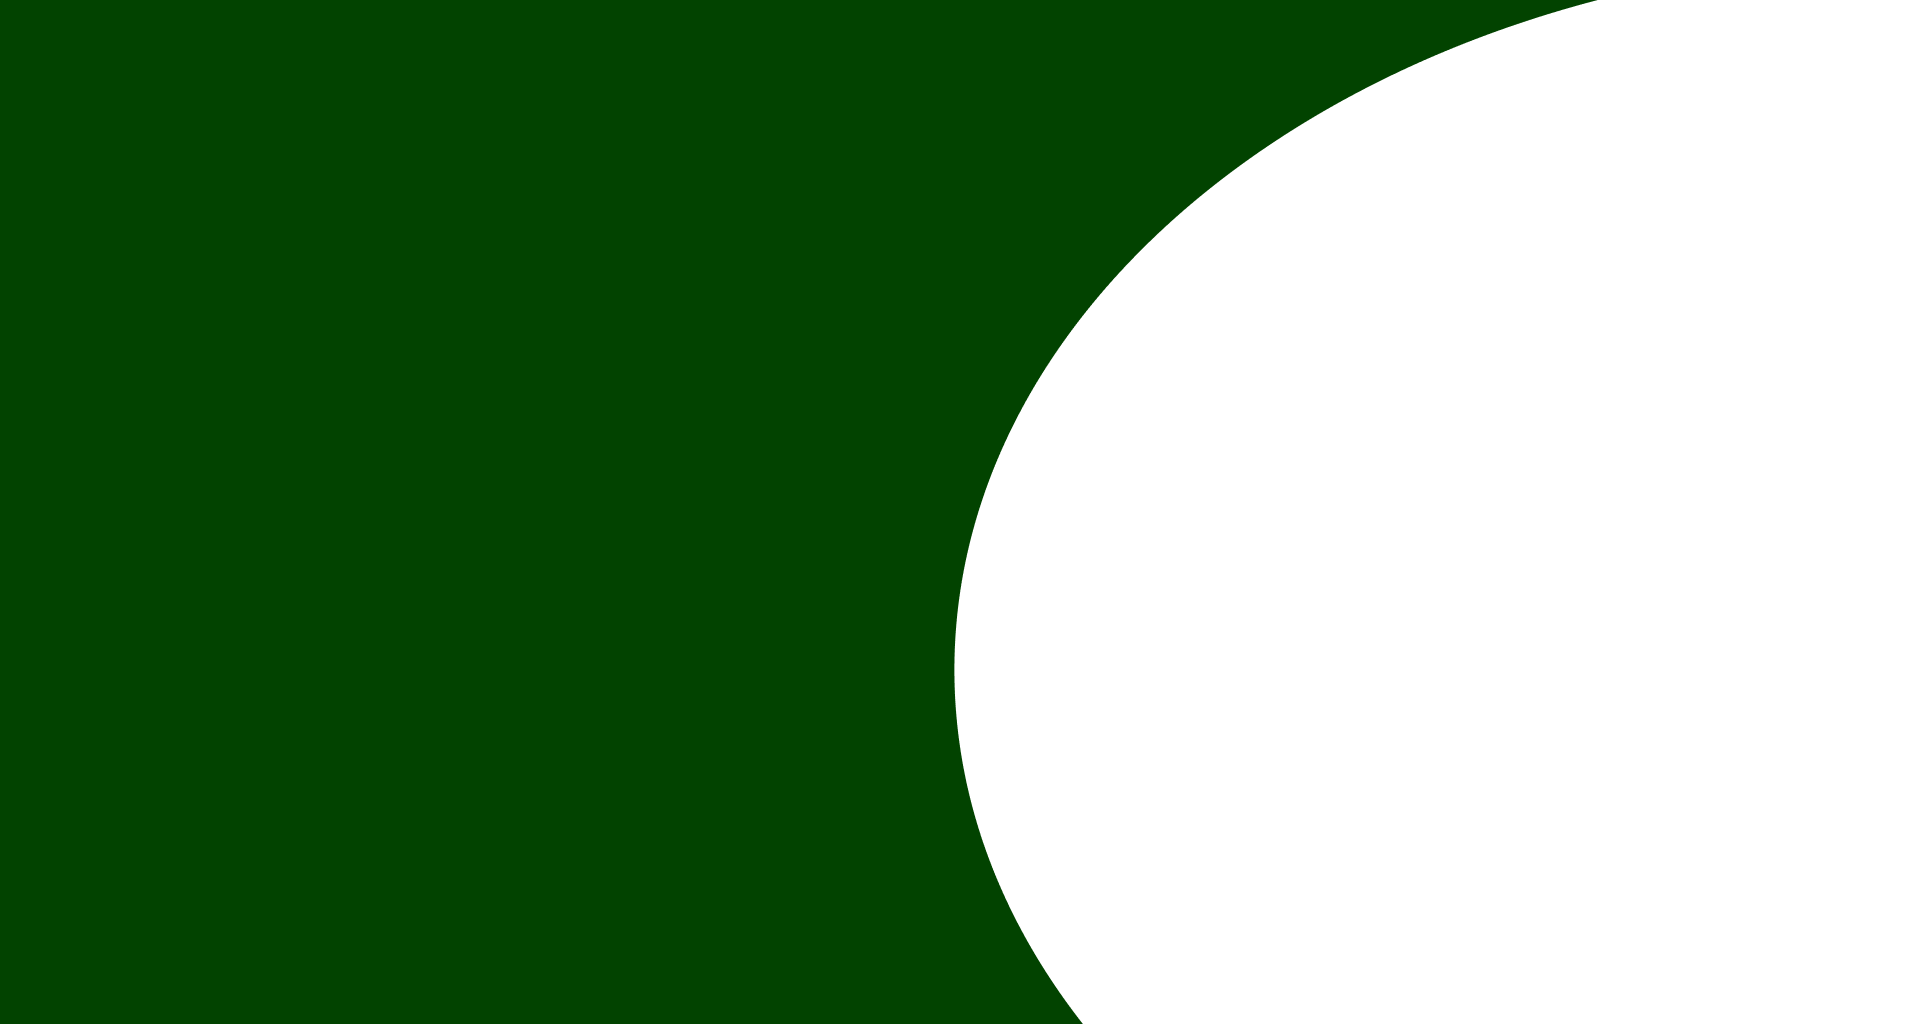
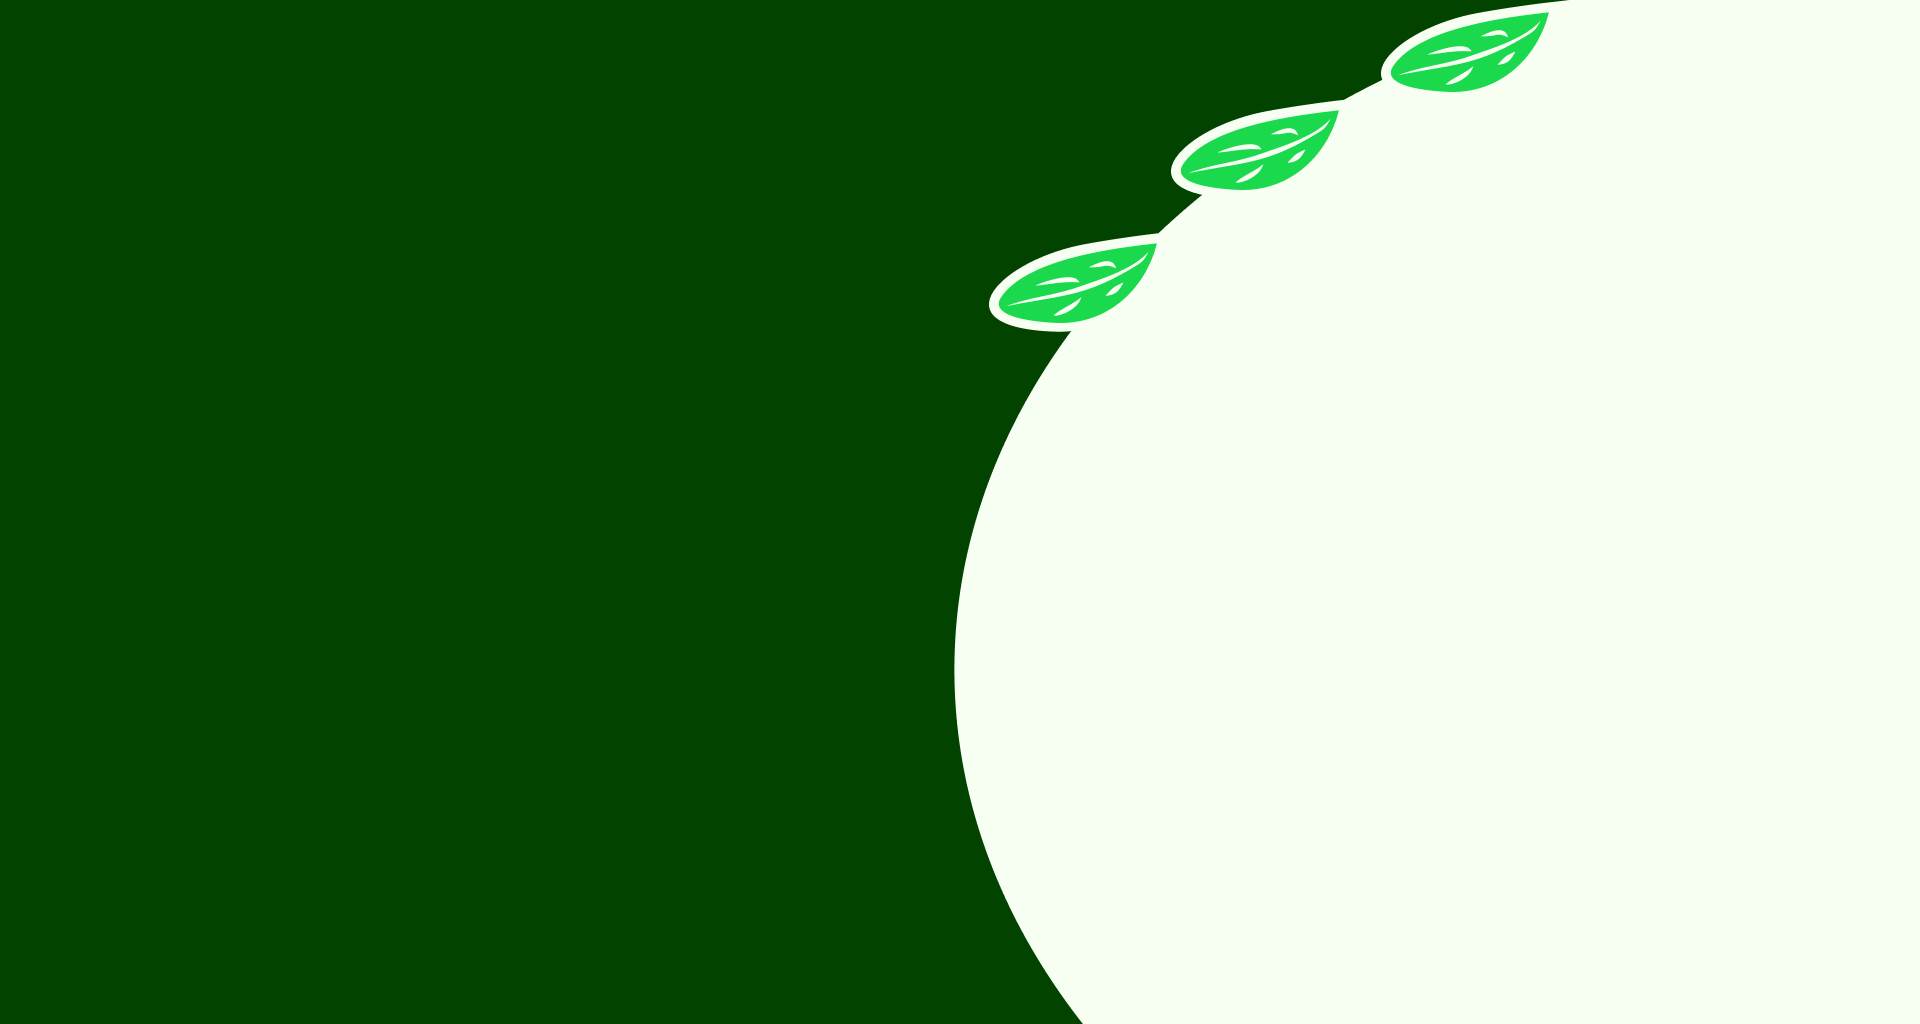
Сreated Login Structure with textboxes and Log In button

Changed region(s): [[0.5, 0.2188, 0.625, 0.3438], [0.5938, 0.0938, 0.7188, 0.1875], [0.7188, 0.0, 0.8438, 0.0938]]

diff --git a/AveCaesarApp/AuthorizationWindow.xaml b/AveCaesarApp/AuthorizationWindow.xaml
@@ -5,7 +5,7 @@
         xmlns:mc="http://schemas.openxmlformats.org/markup-compatibility/2006"
         xmlns:local="clr-namespace:AveCaesarApp"
         mc:Ignorable="d"
-        Title="Ave Caesar" Height="450" Width="800" MinWidth="800" MinHeight="450" Icon="/Images/LogoIcon.png">
+        Title="Ave Caesar" Height="450" Width="800" MinWidth="800" MinHeight="480" Icon="/Images/LogoIcon.png"  FontFamily="Source Serif Pro">
     <Window.Background>
         <ImageBrush ImageSource="Images/Background.png"></ImageBrush>
     </Window.Background>
@@ -30,5 +30,21 @@
             <Run FontWeight="Bold">правильного питания </Run>
             <Run>в Беларуси</Run>
         </TextBlock>
+        <StackPanel x:Name="AuthorizationStackPanel" Grid.Row="1" Grid.Column="2" Grid.ColumnSpan="2" Grid.RowSpan="3" Margin="30,0,0,0" SizeChanged="AuthorizationStackPanel_OnSizeChanged">
+            <TextBlock x:Name="LogInLabel" FontSize="23" FontFamily="Source Serif Pro" TextAlignment="Center" Foreground="#FF024300" FontWeight="Bold">Вход в систему</TextBlock>
+            <Border x:Name="LoginTextBoxBorder"  BorderBrush="#FF024300" BorderThickness="0.9"  Margin="60,10,60,10" CornerRadius="10">
+                <TextBox x:Name="LoginTextBox"  ToolTip="Логин" BorderBrush="{x:Null}" Margin="5,2,5,2"
+                     BorderThickness="0" GotFocus="LoginTextBox_OnGotFocus" LostFocus="LoginTextBox_OnLostFocus"
+                      FontWeight="Regular" FontFamily="Source Serif Pro" FontSize="17" Padding="7" SizeChanged="LoginTextBox_OnSizeChanged"/>
+            </Border>
+            <Border x:Name="PasswordTextBoxBorder" BorderBrush="#FF024300" BorderThickness="0.9"  Margin="60,10,60,10" CornerRadius="10">
+                <TextBox x:Name="PasswordTextBox"  ToolTip="Логин" BorderBrush="{x:Null}" Margin="5,2,5,2"
+                         BorderThickness="0" GotFocus="PasswordTextBox_OnGotFocus" LostFocus="PasswordTextBox_OnLostFocus" 
+                         FontWeight="Regular" FontSize="17" Padding="7" SizeChanged="PasswordTextBox_OnSizeChanged"/>
+            </Border>
+            <Border x:Name="LogInButtonBorder" Background="#FF024300" Margin="110,10,110,0" Padding="0,5,0,5" CornerRadius="13" Cursor="Hand">
+                <Button x:Name="LogInButton" BorderBrush="{x:Null}" Foreground="#FFF7FFF3" Background="{x:Null}" FontSize="18" IsHitTestVisible="False" SizeChanged="LogInButton_OnSizeChanged">Войти</Button>
+            </Border>
+        </StackPanel>
     </Grid>
 </Window>

diff --git a/AveCaesarApp/AuthorizationWindow.xaml.cs b/AveCaesarApp/AuthorizationWindow.xaml.cs
@@ -21,6 +21,10 @@ namespace AveCaesarApp
         public AuthorizationWindow()
         {
             InitializeComponent();
+            LoginTextBox.Text = "Логин";
+            LoginTextBox.FontWeight = FontWeights.Light;
+            PasswordTextBox.Text = "Пароль";
+            PasswordTextBox.FontWeight = FontWeights.Light;
         }
 
         private void SubTextBox_OnSizeChanged(object sender, SizeChangedEventArgs e)
@@ -38,17 +42,155 @@ namespace AveCaesarApp
                 SubTextBox.FontSize = 23;
             }
 
-            if (Height > 800)
+            if (Height > 800 || this.WindowState == WindowState.Maximized)
             {
                 SubTextBox.FontSize = 30;
                 SubTextBox.MaxWidth = 600;
+            }
+           
+        }
+
+        #region LoginTextBox
+
+        private void LoginTextBox_OnGotFocus(object sender, RoutedEventArgs e)
+        {
+            if (LoginTextBox.Text == "Логин")
+            {
+                LoginTextBox.Text = "";
+                LoginTextBox.FontWeight = FontWeights.Bold;
 
             }
-            if (this.WindowState == WindowState.Maximized)
+        }
+
+        private void LoginTextBox_OnLostFocus(object sender, RoutedEventArgs e)
+        {
+            if (string.IsNullOrWhiteSpace(LoginTextBox.Text))
             {
-                SubTextBox.FontSize = 35;
-                SubTextBox.MaxWidth = 600;
+                LoginTextBox.Text = "Логин";
+                LoginTextBox.FontWeight = FontWeights.Light;
+
             }
+        }
+        #endregion
+
+        #region PasswordTextBox
+
+        private void PasswordTextBox_OnLostFocus(object sender, RoutedEventArgs e)
+        {
+            if (string.IsNullOrWhiteSpace(PasswordTextBox.Text))
+            {
+                PasswordTextBox.Text = "Пароль";
+                PasswordTextBox.FontWeight = FontWeights.Light;
+
+            }
+        }
+
+        private void PasswordTextBox_OnGotFocus(object sender, RoutedEventArgs e)
+        {
+            if (PasswordTextBox.Text == "Пароль")
+            {
+                PasswordTextBox.Text = "";
+                PasswordTextBox.FontWeight = FontWeights.Bold;
+
+            }
+        }
+        #endregion
+
+        private void LogInButton_OnSizeChanged(object sender, SizeChangedEventArgs e)
+        {
+            if (Height > 300 && Height <= 600)
+            {
+                LogInButton.FontSize = 18;
+                LogInButton.MaxWidth = 350;
+                LogInButtonBorder.Margin = new Thickness(110, 20, 110, 0);
+                LogInLabel.FontSize = 23;
+            }
+
+            if (Height > 600 && Height <= 800)
+            {
+                LogInButton.MaxWidth = 450;
+                LogInButton.FontSize = 20;
+                LogInButtonBorder.Margin = new Thickness(170, 20, 170, 0);
+                LogInLabel.FontSize = 26;
+
+
+            }
+
+            if (Height > 800 || this.WindowState == WindowState.Maximized)
+            {
+                LogInButton.FontSize = 23;
+                LogInButton.MaxWidth = 600;
+                LogInButtonBorder.Margin = new Thickness(250, 20, 250, 0);
+                LogInLabel.FontSize = 30;
+
+
+            }
+
+        }
+
+        private void PasswordTextBox_OnSizeChanged(object sender, SizeChangedEventArgs e)
+        {
+            if (Height > 300 && Height <= 600)
+            {
+                PasswordTextBox.FontSize = 18;
+                PasswordTextBox.MaxWidth = 350;
+                PasswordTextBoxBorder.Margin = new Thickness(60, 20, 60, 0);
+            }
+
+            if (Height > 600 && Height <= 800)
+            {
+                PasswordTextBox.MaxWidth = 450;
+                PasswordTextBox.FontSize = 20;
+                PasswordTextBoxBorder.Margin = new Thickness(70, 20, 70, 0);
+
+            }
+
+            if (Height > 800 || this.WindowState == WindowState.Maximized)
+            {
+                PasswordTextBox.FontSize = 23;
+                PasswordTextBox.MaxWidth = 600;
+                PasswordTextBoxBorder.Margin = new Thickness(160, 20, 160, 0);
+
+            }
+        }
+
+        private void LoginTextBox_OnSizeChanged(object sender, SizeChangedEventArgs e)
+        {
+            if (Height > 300 && Height <= 600)
+            {
+                LoginTextBox.FontSize = 18;
+                LoginTextBox.MaxWidth = 350;
+                LoginTextBoxBorder.Margin = new Thickness(60, 20, 60, 0);
+            }
+
+            if (Height > 600 && Height <= 800)
+            {
+                LoginTextBox.MaxWidth = 450;
+                LoginTextBox.FontSize = 20;
+                LoginTextBoxBorder.Margin = new Thickness(70, 20, 70, 0);
+
+            }
+
+            if (Height > 800 || this.WindowState == WindowState.Maximized)
+            {
+                LoginTextBox.FontSize = 23;
+                LoginTextBox.MaxWidth = 600;
+                LoginTextBoxBorder.Margin = new Thickness(160, 20, 160, 0);
+
+            }
+        }
+
+        private void AuthorizationStackPanel_OnSizeChanged(object sender, SizeChangedEventArgs e)
+        {
+            if (Height > 300 && Height <= 600)
+            {
+                AuthorizationStackPanel.Margin = new Thickness(30, 0, 0, 0);
+            }
+            if (Height > 800 || this.WindowState == WindowState.Maximized)
+            {
+                AuthorizationStackPanel.Margin = new Thickness(60, 60, 0, 0);
+            }
+            
         }
     }
 }
